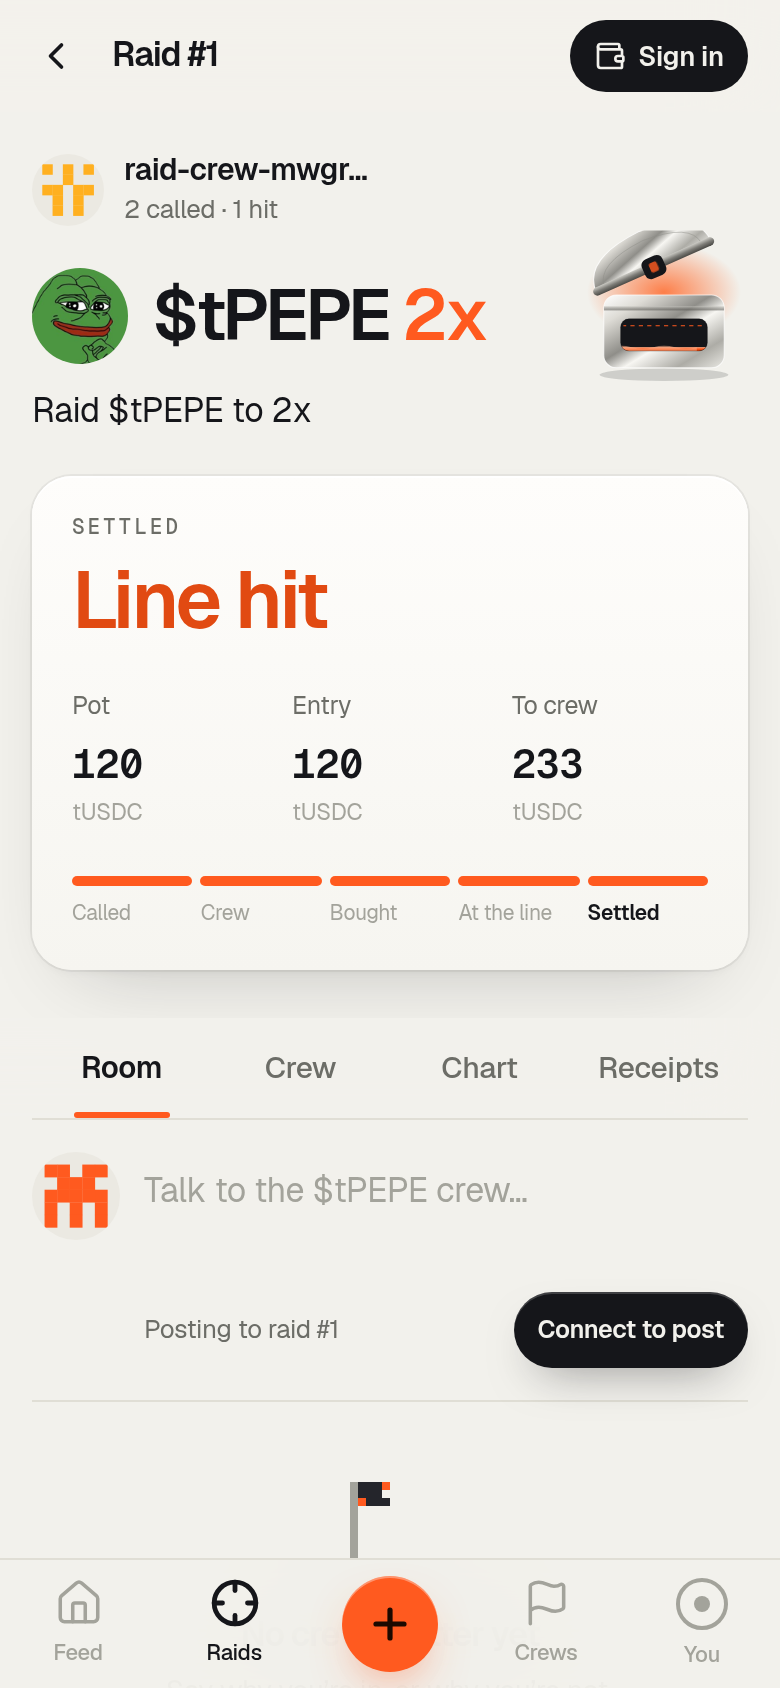
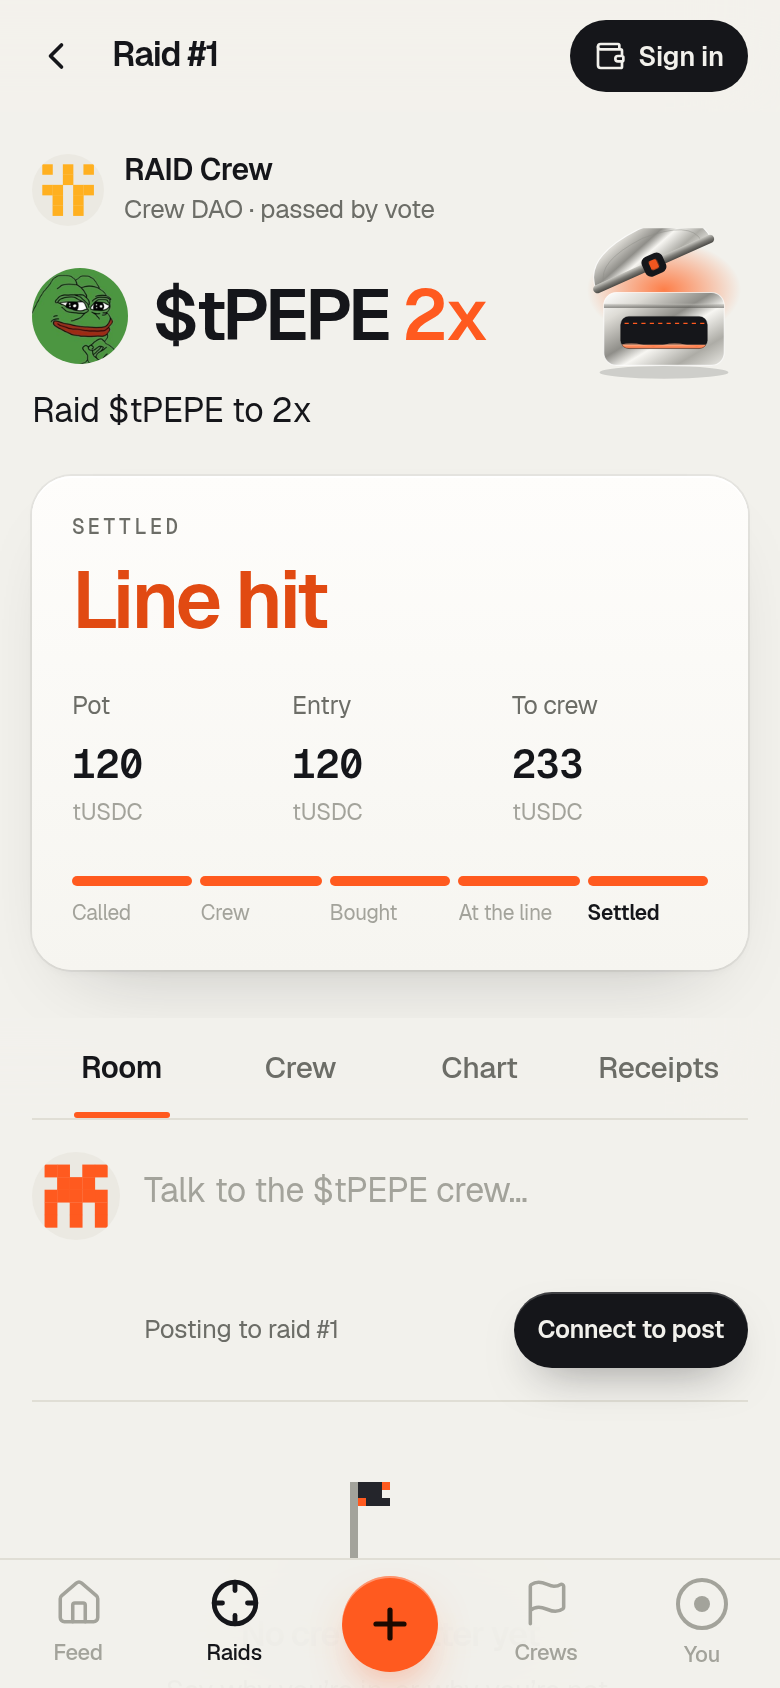
Judge faucet opens sub-accounts of a RAID testnet account; judges page restyle; crew DAO names; war test uses the configured chest
- /api/judge-faucet: createAccount judge-xxxx.<parent> with 0.5 testnet NEAR and the browser's public key, then tUSDC; no public helper
- /judges in the new layout: one big action, three steps, payout, sources, notes
- crewName() names crew DAO callers (raid #1 shows RAID Crew)
- war.test.ts reads CHEST_ID so it passes under any chest env; crew name test added

Changed region(s): [[0.1538, 0.0924, 0.4615, 0.154], [0.7692, 0.1232, 0.9231, 0.2464]]

diff --git a/web/src/app/judges/page.tsx b/web/src/app/judges/page.tsx
@@ -3,7 +3,7 @@ import Link from 'next/link';
 import { useState } from 'react';
 import { ArrowRight, CheckCircle2, ExternalLink, KeyRound, LogOut } from 'lucide-react';
 import { Shell } from '@/components/Shell';
-import { Identicon } from '@/components/ui';
+import { Avatar } from '@/components/app/Avatar';
 import { HonestNotes, PayoutSlider, WhyNow } from '@/components/JudgeKit';
 import { FOUNDER_LINE } from '@/lib/judges';
 import { createJudgeAccount, enterJudgeMode, leaveJudgeMode, useAccount, isJudgeMode } from '@/lib/wallet';
@@ -32,72 +32,77 @@ export default function JudgesPage() {
     finally { setBusy(false); }
   };
   return (
-    <Shell title="For judges">
-      <section className="panel overflow-hidden">
-        <div className="border-b border-line px-3 py-2.5 md:px-4 md:py-3">
-          <p className="wide text-[1rem] md:text-[20px]">Try a raid in 2 minutes</p>
-          <p className="mt-1 text-[12.5px] md:text-[13px] text-mute">No wallet install, no money. One click makes a NEAR testnet account in this browser with testnet NEAR and 500 tUSDC.</p>
-        </div>
+    <Shell title="Judges">
+      <header className="pb-6 pt-4 md:pt-2">
+        <span className="chip chip-ghost">NEAR testnet · free</span>
+        <h1 className="mt-4 text-[34px] font-semibold leading-[1.02] tracking-[-0.045em] md:text-[44px]">Try a raid in two minutes. <span className="text-faint">No wallet, no money.</span></h1>
+        <p className="mt-3 max-w-[44ch] text-[16px] leading-relaxed text-mute">One tap opens a NEAR testnet account in this browser with testnet NEAR for gas and 500 tUSDC to raid with.</p>
+      </header>
+
+      <section className="panel rounded-[28px] p-5">
         {judging ? (
-          <div className="flex items-center gap-2.5 px-3 py-3 md:px-4">
-            <CheckCircle2 size={18} className="text-lime" />
-            <p className="min-w-0 flex-1 truncate text-[13px]">Signing as <b className="mono">{acct}</b></p>
-            <button onClick={() => { leaveJudgeMode(); toast({ title: 'Judge mode off' }); }} className="press inline-flex h-[2.375rem] md:h-9 items-center gap-1.5 rounded-[12px] px-3 text-[12.5px] font-semibold hairline"><LogOut size={14} />Leave</button>
+          <div className="flex items-center gap-3">
+            <Avatar id={acct} size={44} />
+            <div className="min-w-0 flex-1"><p className="flex items-center gap-1.5 text-[15px] font-semibold"><CheckCircle2 size={17} className="text-lime" />Judge mode on</p><p className="truncate mono text-[13px] text-mute">{acct}</p></div>
+            <button onClick={() => { leaveJudgeMode(); toast({ title: 'Judge mode off' }); }} className="press inline-flex h-10 items-center gap-1.5 rounded-full px-4 text-[14px] font-semibold hairline"><LogOut size={15} />Leave</button>
           </div>
         ) : (
-          <div className="grid gap-2 px-3 py-3 md:px-4">
-            <button disabled={making} onClick={() => void make()} className="press h-11 rounded-[13px] bg-lime text-[14px] font-bold text-[#1c0900] disabled:opacity-45">{making ? 'Making your testnet account…' : 'Get a testnet judge account'}</button>
-            <p className="text-[10.5px] text-faint">The key is made in this browser and stays in localStorage. Only the public key goes to the faucet, which opens the account on NEAR testnet and sends it test tokens. Testnet tokens have no value.</p>
-            <details className="text-[12px]">
-              <summary className="cursor-pointer text-mute">Already have a testnet account? Use its key</summary>
-              <div className="mt-2 grid gap-2">
-                <input value={pick} onChange={(e) => setPick(e.target.value)} autoComplete="off" spellCheck={false} placeholder="account.testnet" className="h-10 rounded-[13px] bg-raised px-2.5 text-[12.5px] outline-none hairline placeholder:text-faint" />
-                <label className="flex h-10 items-center gap-2 rounded-[13px] bg-raised px-2.5 hairline">
-                  <KeyRound size={15} className="shrink-0 text-mute" />
-                  <input value={key} onChange={(e) => setKey(e.target.value)} type="password" autoComplete="off" spellCheck={false} placeholder="ed25519:…" className="min-w-0 flex-1 bg-transparent text-[12.5px] outline-none placeholder:text-faint" />
+          <>
+            <button disabled={making} onClick={() => void make()} className="press h-14 w-full rounded-full btn-signal text-[16px] font-semibold disabled:opacity-60">{making ? 'Opening your testnet account…' : 'Get a testnet judge account'}</button>
+            <p className="mt-3 text-[13px] leading-relaxed text-mute">The key is made in this browser and stays in its local storage. Only the public key goes to the faucet, which opens the account on NEAR testnet and sends it test tokens. Testnet tokens have no value.</p>
+            <details className="mt-4 border-t border-line pt-4 text-[14px]">
+              <summary className="cursor-pointer font-medium text-mute">Already have a testnet account? Use its key</summary>
+              <div className="mt-3 grid gap-2.5">
+                <input value={pick} onChange={(e) => setPick(e.target.value)} autoComplete="off" spellCheck={false} placeholder="account.testnet" className="h-12 rounded-[16px] bg-raised px-4 text-[15px] outline-none placeholder:text-faint" />
+                <label className="flex h-12 items-center gap-2 rounded-[16px] bg-raised px-4">
+                  <KeyRound size={16} className="shrink-0 text-mute" />
+                  <input value={key} onChange={(e) => setKey(e.target.value)} type="password" autoComplete="off" spellCheck={false} placeholder="ed25519:…" className="min-w-0 flex-1 bg-transparent text-[15px] outline-none placeholder:text-faint" />
                 </label>
-                <button disabled={!key || !pick || busy} onClick={() => void go()} className="press h-10 rounded-[13px] text-[13px] font-semibold hairline disabled:opacity-45">{busy ? 'Checking key…' : 'Use this account'}</button>
+                <button disabled={!key || !pick || busy} onClick={() => void go()} className="press h-12 rounded-full text-[15px] font-semibold hairline disabled:opacity-45">{busy ? 'Checking key…' : 'Use this account'}</button>
               </div>
             </details>
-          </div>
+          </>
         )}
-        <ol className="grid gap-0 border-t border-line text-[12.5px] md:text-[13px]">
-          <Step n={1} href="/raids/1" t="See a finished raid: #1, called by a crew DAO" b="Open, bought, sold at 2.05x, fees split and every backer paid. Each step links to its testnet transaction." />
-          <Step n={2} href="/raids" t="Call your own raid" b="Pick a coin and a line. The crew window and the public countdown are 1 minute each on this testnet chest." />
-          <Step n={3} href="/raids" t="Back a raid with tUSDC" b="Enter 10 tUSDC on an open raid. Your stake shows in the chest’s backer list." />
-        </ol>
       </section>
 
-      {FOUNDER_LINE && <p className="mt-3 rounded-[16px] bg-raised px-3 py-2.5 text-[13px] italic">“{FOUNDER_LINE}”</p>}
+      <h2 className="mt-10 text-[20px] font-semibold tracking-[-0.03em]">Three things to try</h2>
+      <ol className="mt-1 divide-y divide-line">
+        <Step n={1} href="/raids/1" t="Open a finished raid" b="Raid #1 was called by a crew DAO, bought, sold at 2.05x, and every backer was paid. Each step links to its testnet transaction." />
+        <Step n={2} href="/raids" t="Call your own raid" b="Tap the orange plus, pick a coin and a line. The crew window and the public countdown are 1 minute each on this chest." />
+        <Step n={3} href="/feed" t="Back a raid and post about it" b="Back an open raid with 10 tUSDC, then post in its room. Your stake shows in the crew list." />
+      </ol>
 
+      {FOUNDER_LINE && <p className="mt-8 border-l-2 border-signal pl-4 text-[17px] leading-relaxed">“{FOUNDER_LINE}”</p>}
+
+      <h2 className="mt-10 text-[20px] font-semibold tracking-[-0.03em]">What a backer gets</h2>
       <PayoutSlider className="mt-3" />
-      <WhyNow className="mt-4" />
+      <WhyNow className="mt-10" />
 
-      <section className="panel mt-4 p-3 md:p-4">
-        <p className="eyebrow">Check it yourself</p>
-        <ul className="mt-2 grid gap-1.5 mono text-[11px] md:text-[11.5px]">
-          <Ext href={explorerAccount(CHEST_ID, NETWORK)}>War chest · {CHEST_ID}</Ext>
-          {CREWS.map((c) => <Ext key={c.key} href={explorerAccount(c.dao, NETWORK)}>{c.name} DAO · {c.dao}</Ext>)}
-          <Ext href={explorerAccount('sputnikv2.testnet', NETWORK)}>Sputnik DAO v2 factory · sputnikv2.testnet</Ext>
-        </ul>
-        <p className="mt-2 text-[11px] text-faint">Every transaction hash from our runs is in the repo’s <code>evidence/</code> folder.</p>
-      </section>
-      <section className="mt-4 px-1"><p className="eyebrow mb-1.5">Honest notes</p><HonestNotes /></section>
+      <h2 className="mt-10 text-[20px] font-semibold tracking-[-0.03em]">Check it yourself</h2>
+      <ul className="mt-1 divide-y divide-line">
+        <Ext href={explorerAccount(CHEST_ID, NETWORK)} t="War chest" a={CHEST_ID} />
+        {CREWS.map((c) => <Ext key={c.key} href={explorerAccount(c.dao, NETWORK)} t={`${c.name} DAO`} a={c.dao} />)}
+        <Ext href={explorerAccount('sputnikv2.testnet', NETWORK)} t="Sputnik DAO v2 factory" a="sputnikv2.testnet" />
+      </ul>
+      <p className="mt-3 text-[13px] text-faint">Every transaction hash from our runs is in the repo’s <code>evidence/</code> folder.</p>
+
+      <h2 className="mt-10 text-[20px] font-semibold tracking-[-0.03em]">Honest notes</h2>
+      <div className="mt-3 text-[15px]"><HonestNotes /></div>
     </Shell>
   );
 }
 
 function Step({ n, t, b, href }: { n: number; t: string; b: string; href: string }) {
   return (
-    <li className="border-b border-line last:border-0">
-      <Link href={href} className="flex items-start gap-2.5 px-3 py-2.5 hover:bg-raised/50 md:px-4">
-        <span className="grid h-6 w-6 shrink-0 place-items-center rounded-full bg-lime mono text-[11px] font-bold text-[#1c0900]">{n}</span>
-        <span className="min-w-0 flex-1"><span className="block font-semibold">{t}</span><span className="block text-[12px] text-mute leading-snug">{b}</span></span>
-        <ArrowRight size={15} className="mt-1 shrink-0 text-mute" />
+    <li>
+      <Link href={href} className="flex items-start gap-4 py-4">
+        <span className="grid h-9 w-9 shrink-0 place-items-center rounded-full bg-ink mono text-[14px] font-semibold text-bg">{n}</span>
+        <span className="min-w-0 flex-1"><span className="block text-[16px] font-semibold">{t}</span><span className="mt-0.5 block text-[14.5px] leading-relaxed text-mute">{b}</span></span>
+        <ArrowRight size={18} className="mt-2 shrink-0 text-faint" />
       </Link>
     </li>
   );
 }
-function Ext({ href, children }: { href: string; children: React.ReactNode }) {
-  return <li><a href={href} target="_blank" rel="noreferrer" className="flex items-center gap-1 truncate text-mute hover:text-ink"><ExternalLink size={11} className="shrink-0" /><span className="truncate">{children}</span></a></li>;
+function Ext({ href, t, a }: { href: string; t: string; a: string }) {
+  return <li><a href={href} target="_blank" rel="noreferrer" className="flex items-center gap-3 py-3.5"><span className="min-w-0 flex-1"><span className="block text-[15px] font-semibold">{t}</span><span className="block truncate mono text-[12.5px] text-mute">{a}</span></span><ExternalLink size={16} className="shrink-0 text-faint" /></a></li>;
 }

diff --git a/web/src/components/JudgeKit.tsx b/web/src/components/JudgeKit.tsx
@@ -78,30 +78,30 @@ export function PayoutSlider({ className = '' }: { className?: string }) {
   const missBack = (stake * exit) / 100;
   const f = (n: number) => n.toLocaleString('en-US', { minimumFractionDigits: 2, maximumFractionDigits: 2 });
   return (
-    <section className={`panel p-3 md:p-4 ${className}`}>
+    <section className={`panel rounded-[28px] p-5 ${className}`}>
       <div className="flex items-center justify-between gap-2">
-        <p className="eyebrow">What you’d get</p>
+        <p className="text-[14px] text-mute">Pick a line</p>
         <Segmented id="pay-line" value={bps} onChange={setBps} options={[{ value: '15000', label: '1.5x' }, { value: '20000', label: '2x' }, { value: '30000', label: '3x' }]} />
       </div>
       <label className="mt-3 block">
-        <span className="flex justify-between text-[12.5px]"><span className="text-mute">Back</span><b className="mono">{stake} USDC</b></span>
+        <span className="flex justify-between text-[14px]"><span className="text-mute">Back</span><b className="mono">{stake} tUSDC</b></span>
         <input type="range" min={1} max={250} value={stake} onChange={(e) => setStake(Number(e.target.value))} className="mt-1.5 w-full accent-[#ff5a1f]" aria-label="Stake" />
       </label>
       <div className="mt-2.5 grid grid-cols-2 gap-2">
         <div className="rounded-[20px] bg-raised/60 p-3">
           <p className="eyebrow">Hits {xLabel(Number(bps))}</p>
-          <p className="mono mt-1 text-[1.0625rem] md:text-[20px] font-bold text-up">{f(p.payout)}</p>
+          <p className="mono mt-1.5 text-[22px] font-semibold text-up">{f(p.payout)}</p>
           <p className="mono mt-0.5 text-[11px] text-up">{fmtPct(p.gainPct)} net</p>
           <p className="mt-1.5 text-[10.5px] text-mute leading-snug">Caller {f(p.callerFee)} · reserve {f(p.buyback)}, from profit only</p>
         </div>
         <div className="rounded-[20px] bg-raised/60 p-3">
           <p className="eyebrow">Miss · sells {(exit / 100).toFixed(2)}x</p>
-          <p className="mono mt-1 text-[1.0625rem] md:text-[20px] font-bold text-down">{f(missBack)}</p>
+          <p className="mono mt-1.5 text-[22px] font-semibold text-down">{f(missBack)}</p>
           <p className="mono mt-0.5 text-[11px] text-down">{fmtPct(exit - 100)} · no fees</p>
           <input type="range" min={0} max={100} value={exit} onChange={(e) => setExit(Number(e.target.value))} className="mt-1.5 w-full accent-[#e0353f]" aria-label="Retreat price" />
         </div>
       </div>
-      <p className="mt-2 text-[10.5px] leading-snug md:text-[11px] text-faint">{fee.caller_fee_bps / 100}% caller fee and {fee.buyback_bps / 100}% buyback, taken from profit only if the raid hits. Max 250 USDC per backer, 1,000 per raid.</p>
+      <p className="mt-3 text-[12.5px] leading-relaxed text-faint">{fee.caller_fee_bps / 100}% caller fee and {fee.buyback_bps / 100}% buyback, taken from profit only if the raid hits. Max 250 USDC per backer, 1,000 per raid.</p>
     </section>
   );
 }
@@ -133,7 +133,7 @@ export function WhyNow({ className = '' }: { className?: string }) {
 
 export function HonestNotes({ className = '' }: { className?: string }) {
   return (
-    <ul className={`grid gap-1 text-[11.5px] md:text-[12px] text-mute leading-snug ${className}`}>
+    <ul className={`grid gap-3 text-[14.5px] text-mute leading-relaxed ${className}`}>
       <li>• <b className="text-ink">Testnet.</b> Raids, backs, crew DAOs and votes are real NEAR testnet transactions. tUSDC is a testnet faucet token with no value.</li>
       <li>• <b className="text-ink">No swaps on testnet.</b> NEAR Intents only runs on mainnet, so testnet backs show a failed forward to Intents; the stake is still recorded.</li>
       <li>• <b className="text-ink">Not audited.</b> The chest has unit tests, not an audit. Tiny amounts only if it ever goes to mainnet.</li>

diff --git a/web/src/app/api/judge-faucet/route.ts b/web/src/app/api/judge-faucet/route.ts
@@ -2,17 +2,18 @@ import { NextResponse } from 'next/server';
 
 /**
  * Judge faucet (NEAR testnet only).
- * The browser makes a fresh ed25519 key and sends only the PUBLIC key here. This route asks the public
- * testnet faucet helper to create a named account for that key, then sends the account test tokens:
+ * The browser makes a fresh ed25519 key and sends only the PUBLIC key here. This route opens a sub-account
+ * (judge-xxxx.<parent>) of a funded testnet account RAID controls, with a little testnet NEAR for gas, then sends it test tokens:
  * 500 tUSDC for raids (owner mint on the testnet tUSDC) and, when configured, 1,000 launchpad tUSDC.
- * The private key never leaves the browser. Server keys come from env and only control testnet tokens.
+ * The private key never leaves the browser. Server keys come from env and only control testnet accounts and tokens.
+ * No dependency on NEAR's public (rate-limited) account helper.
  */
 export const runtime = 'nodejs';
 export const dynamic = 'force-dynamic';
 
 const NETWORK = process.env.NEXT_PUBLIC_NEAR_NETWORK ?? 'testnet';
 const RPC = process.env.NEXT_PUBLIC_RAID_RPC ?? 'https://rpc.testnet.fastnear.com';
-const HELPER = 'https://helper.testnet.near.org/account';
+const JUDGE_NEAR = BigInt(process.env.RAID_JUDGE_NEAR_YOCTO ?? '500000000000000000000000'); // 0.5 testnet NEAR for gas
 const hits = new Map<string, number[]>();
 const LIMIT = 5;
 const WINDOW_MS = 60 * 60_000;
@@ -43,14 +44,26 @@ export async function POST(req: Request) {
   const pk = body.publicKey ?? '';
   if (!/^ed25519:[1-9A-HJ-NP-Za-km-z]{40,50}$/.test(pk)) return NextResponse.json({ error: 'Send an ed25519 public key' }, { status: 400 });
 
-  const accountId = `raid-judge-${Date.now().toString(36)}${Math.random().toString(36).slice(2, 6)}.testnet`;
-  const h = await fetch(HELPER, { method: 'POST', headers: { 'content-type': 'application/json' }, body: JSON.stringify({ newAccountId: accountId, newAccountPublicKey: pk }) });
-  if (!h.ok) return NextResponse.json({ error: `Testnet faucet helper answered ${h.status}` }, { status: 502 });
-  for (let i = 0; i < 20 && !(await accountExists(accountId)); i++) await new Promise((r) => setTimeout(r, 1000));
+  const parent = process.env.RAID_JUDGE_PARENT ?? signer;
+  const parentKey = process.env.RAID_JUDGE_PARENT_KEY ?? signerKey;
+  const accountId = `judge-${Date.now().toString(36)}${Math.random().toString(36).slice(2, 6)}.${parent}`;
 
   const [{ Account }, { JsonRpcProvider }, { KeyPairSigner }] = await Promise.all([import('@near-js/accounts'), import('@near-js/providers'), import('@near-js/signers')]);
   const txs: Record<string, string | undefined> = {};
   const hash = (o: unknown) => (o as { transaction_outcome?: { id: string } })?.transaction_outcome?.id;
+  // createAccount on the parent: CreateAccount + Transfer + AddKey(full access, the browser's public key) in one tx.
+  for (let i = 0; ; i++) {
+    try {
+      const p = new Account(parent, new JsonRpcProvider({ url: RPC }), KeyPairSigner.fromSecretKey(parentKey as `ed25519:${string}`));
+      txs.create = hash(await p.createAccount(accountId, pk, JUDGE_NEAR));
+      break;
+    } catch (e) {
+      if (i < 3 && /nonce/i.test((e as Error).message)) { await new Promise((r) => setTimeout(r, 1500 + i * 1000)); continue; }
+      if (await accountExists(accountId)) break;
+      return NextResponse.json({ error: `Could not open the testnet account: ${(e as Error).message.slice(0, 160)}` }, { status: 502 });
+    }
+  }
+  for (let i = 0; i < 10 && !(await accountExists(accountId)); i++) await new Promise((r) => setTimeout(r, 1000));
   // A fresh Account per call and a short retry: several judges can share this signer, so nonces can collide.
   const send = async (contractId: string, methodName: string, args: Record<string, unknown>) => {
     for (let i = 0; ; i++) {

diff --git a/web/src/test/war.test.ts b/web/src/test/war.test.ts
@@ -1,6 +1,6 @@
 import { describe, expect, it } from 'vitest';
-import type { Raid } from '../lib/raid';
-import { CREWS, raidCall, votesNeeded, warLeader, warScore, type Policy, type Proposal } from '../lib/crews';
+import { CHEST_ID, type Raid } from '../lib/raid';
+import { CREWS, crewName, raidCall, votesNeeded, warLeader, warScore, type Policy, type Proposal } from '../lib/crews';
 
 const raid = (o: Partial<Raid> = {}): Raid => ({ id: 0, caller: CREWS[0]!.dao, title: 't', target: 'nep141:doge.omft.near', target_x_bps: 20000, opens_until_ms: 1000, retreat_at_ms: 5000, pot: '100000000', entry_cost: '0', held: '0', proceeds: '0', pending_min_out: '0', pending_deadline_ms: 0, status: 'Open', hit: false, buy_quote_hash: null, sell_quote_hash: null, ...o });
 
@@ -31,8 +31,14 @@ describe('raid war', () => {
   });
   it('decodes a call_raid FunctionCall proposal', () => {
     const args = Buffer.from(JSON.stringify({ title: 'Raid $PEPE to 2x', target: 'nep141:x', target_x_bps: 20000, open_minutes: 600, retreat_hours: 72 })).toString('base64');
-    const p = { kind: { FunctionCall: { receiver_id: 'raid-chest-mwab3vnk.testnet', actions: [{ method_name: 'call_raid', args }] } } } as unknown as Proposal;
+    const p = { kind: { FunctionCall: { receiver_id: CHEST_ID, actions: [{ method_name: 'call_raid', args }] } } } as unknown as Proposal;
     expect(raidCall(p)?.target_x_bps).toBe(20000);
     expect(raidCall({ kind: { Vote: {} } } as unknown as Proposal)).toBeNull();
+  });
+  it('names crew DAO callers', () => {
+    expect(crewName(CREWS[0]!.dao)).toBe('Frog Legion');
+    expect(crewName('raid-crew-mwgr1iba.sputnikv2.testnet')).toBe('RAID Crew');
+    expect(crewName('raid-moon-squad-abc123x.sputnikv2.testnet')).toBe('RAID Moon Squad');
+    expect(crewName('someone.testnet')).toBeNull();
   });
 });

diff --git a/web/src/app/raids/[id]/page.tsx b/web/src/app/raids/[id]/page.tsx
@@ -18,7 +18,7 @@ import { useBackers, useChestConfig, useNow, useRaid, useRaids } from '@/lib/hoo
 import { useQuote, fmtPrice, countdown, shortAddr } from '@/lib/market';
 import { coinByAsset, explorerAccount, explorerTx } from '@/lib/coins';
 import { LifecycleReceipts, raidReceipt } from '@/components/JudgeKit';
-import { crewByDao } from '@/lib/crews';
+import { crewName } from '@/lib/crews';
 import { attributeReel, rememberReel } from '@/lib/reels';
 import { CHEST_ID, NETWORK, raidApi, target, tx, usdcOf, xLabel, liveMultiple } from '@/lib/raid';
 import { send, useAccount, connect } from '@/lib/wallet';
@@ -63,7 +63,8 @@ export default function RaidPage({ params }: { params: Promise<{ id: string }> }
   const inCountdown = r.status === 'Open' && !open && !!r.buy_after_ms && now > 0 && now < r.buy_after_ms;
   const callerRaids = (all.data ?? []).filter((x) => x.caller === r.caller);
   const rc = raidReceipt(r.id);
-  const crew = crewByDao(r.caller);
+  const crewLabel = crewName(r.caller);
+  const crew = crewLabel ? { name: crewLabel } : null;
 
   const tabs = [{ key: 'room', label: 'Room' }, { key: 'crew', label: 'Crew' }, { key: 'chart', label: 'Chart' }, { key: 'rules', label: 'Receipts' }] as const;
   return (

diff --git a/web/src/lib/crews.ts b/web/src/lib/crews.ts
@@ -11,6 +11,16 @@ export const CREWS: Crew[] = [
   { key: 'dogs', name: 'Doge Pack', dao: `raid-doge-pack.${DAO_FACTORY}`, tag: 'DGP', color: '#3a3b42', ink: '#ffffff' },
 ];
 export const crewByDao = (dao: string) => CREWS.find((c) => c.dao === dao);
+/** Crew DAOs that call raids on the current chest but are not in a war: the lifecycle crew (purpose "RAID crew (testnet)"). */
+const OTHER_CREWS: Record<string, string> = { [`raid-crew-mwgr1iba.${DAO_FACTORY}`]: 'RAID Crew' };
+/** A human name for a crew DAO caller, or null when the account is not a Sputnik DAO. */
+export function crewName(account: string): string | null {
+  const c = crewByDao(account);
+  if (c) return c.name;
+  if (OTHER_CREWS[account]) return OTHER_CREWS[account]!;
+  if (account.endsWith(`.${DAO_FACTORY}`)) return account.slice(0, -DAO_FACTORY.length - 1).replace(/-[a-z0-9]{6,}$/, '').split('-').map((w) => (w === 'raid' ? 'RAID' : w[0]!.toUpperCase() + w.slice(1))).join(' ');
+  return null;
+}
 
 /** War #1: Frog Legion vs Doge Pack, 24 h from the crews' first proposals (2026-11-11 17:28 UTC = 18:28 WAT). */
 export const WAR = { id: 1, start: 1794418080000, end: 1794418080000 + 24 * 3600_000, crews: ['frogs', 'dogs'] as const };

diff --git a/web/src/lib/people.ts b/web/src/lib/people.ts
@@ -4,11 +4,12 @@
  * from the chest contract and the social API. They are labelled "testnet account" wherever they appear.
  */
 import list from './people.json';
+import { crewName } from './crews';
 export interface Person { handle: string; account: string | null; name: string; bio: string; crew: string; hue: number }
 export const PEOPLE = list as Person[];
 export const personByAccount = (a?: string | null) => (a ? PEOPLE.find((p) => p.account === a) : undefined);
 export const personByHandle = (h?: string | null) => (h ? PEOPLE.find((p) => p.handle === h) : undefined);
 /** Resolve a URL segment (handle or account id) to an account id. */
 export const resolveAccount = (seg: string) => personByHandle(seg)?.account ?? seg;
-export const displayName = (a: string) => personByAccount(a)?.name ?? a.replace(/\.(testnet|near)$/, '').replace(/^(.{14}).+$/, '$1…');
+export const displayName = (a: string) => personByAccount(a)?.name ?? crewName(a) ?? a.replace(/\.(testnet|near)$/, '').replace(/^(.{14}).+$/, '$1…');
 export const profileHref = (a: string) => `/u/${personByAccount(a)?.handle ?? a}`;
